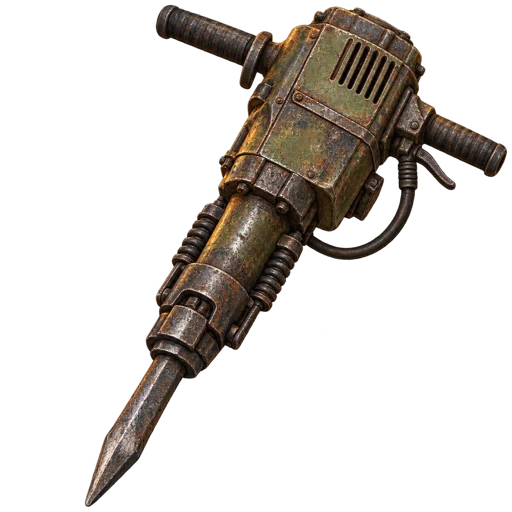
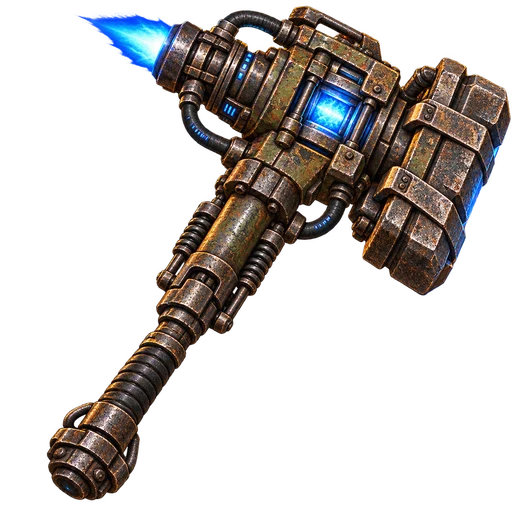
Give powered melee weapons blue thrusters and energy hardware

diff --git a/docs/late-progression-art.md b/docs/late-progression-art.md
@@ -38,3 +38,11 @@ Assets (paths relative to repository root):
 - `static/img/enemies/hound-gunner.webp` — an Ash Hounds raider gunner in battered tactical armour holding a rifle, abandoned rail yard
 - `static/img/enemies/armoured-hound.webp` — ferocious dog in scavenged protective armour in a ruined rail yard
 - `static/img/enemies/war-guardian.webp` — a heavy pre-war military security robot with gun arms in a bunker
+
+## 2026-10-13 — powered melee icon revision
+
+Re-edited `powerhammer.webp` and `warpick.webp` with the built-in image generator, using each existing icon as its reference. Both now have a blue rear thruster flame, luminous energy components and reinforced mechanical construction, retaining weathered painted wasteland materials. No gameplay values changed.
+
+Edit prompt direction: make the hammer a substantial futuristic demolition weapon and the pick a powered armour-piercing weapon; place a short blue propulsion flame opposite the striking face/blade; add energy cells, cables and braces; preserve a readable full-object inventory silhouette without text. Explicitly require genuine RGBA alpha transparency, no baked checkerboard, matte, scenery or background pixels.
+
+Generated source files: `exec-f0230c58-5ae8-4beb-9a03-b03ee2433371.png` (hammer) and `exec-53947114-5bdc-48a9-8ba1-bcc80c235a63.png` (pick). Verified actual RGBA channels before replacement: 65.2% and 78.1% fully transparent pixels respectively, all four corners transparent. Inspected both images for unwanted backgrounds, resized to 512 px and verified alpha again in the final WebP files.
